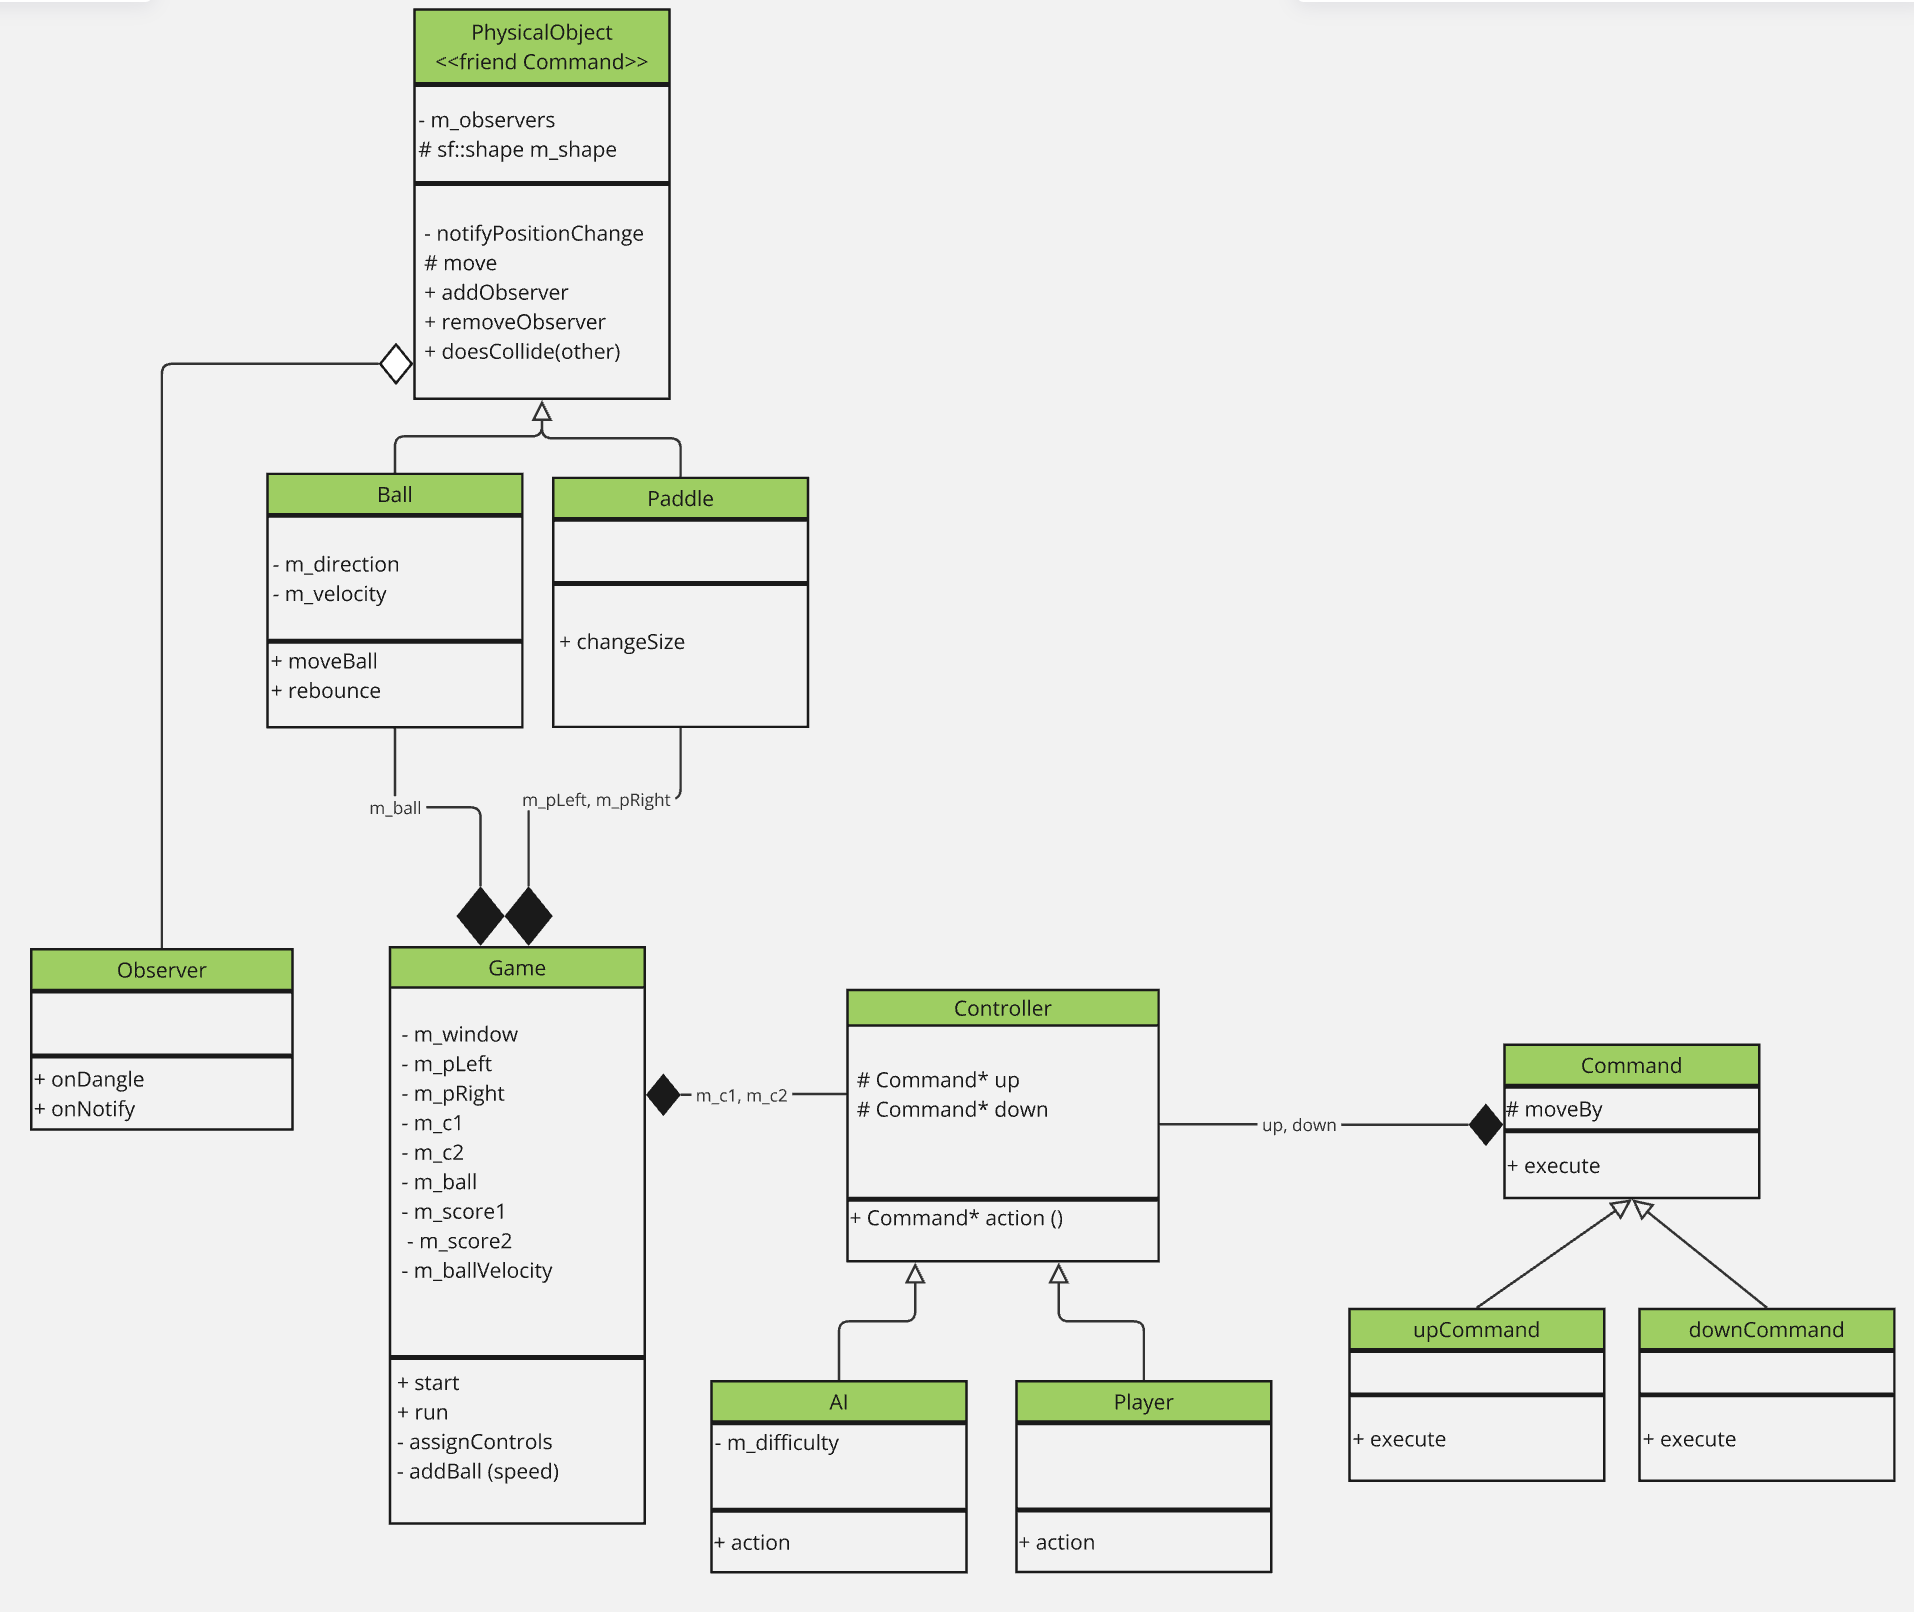
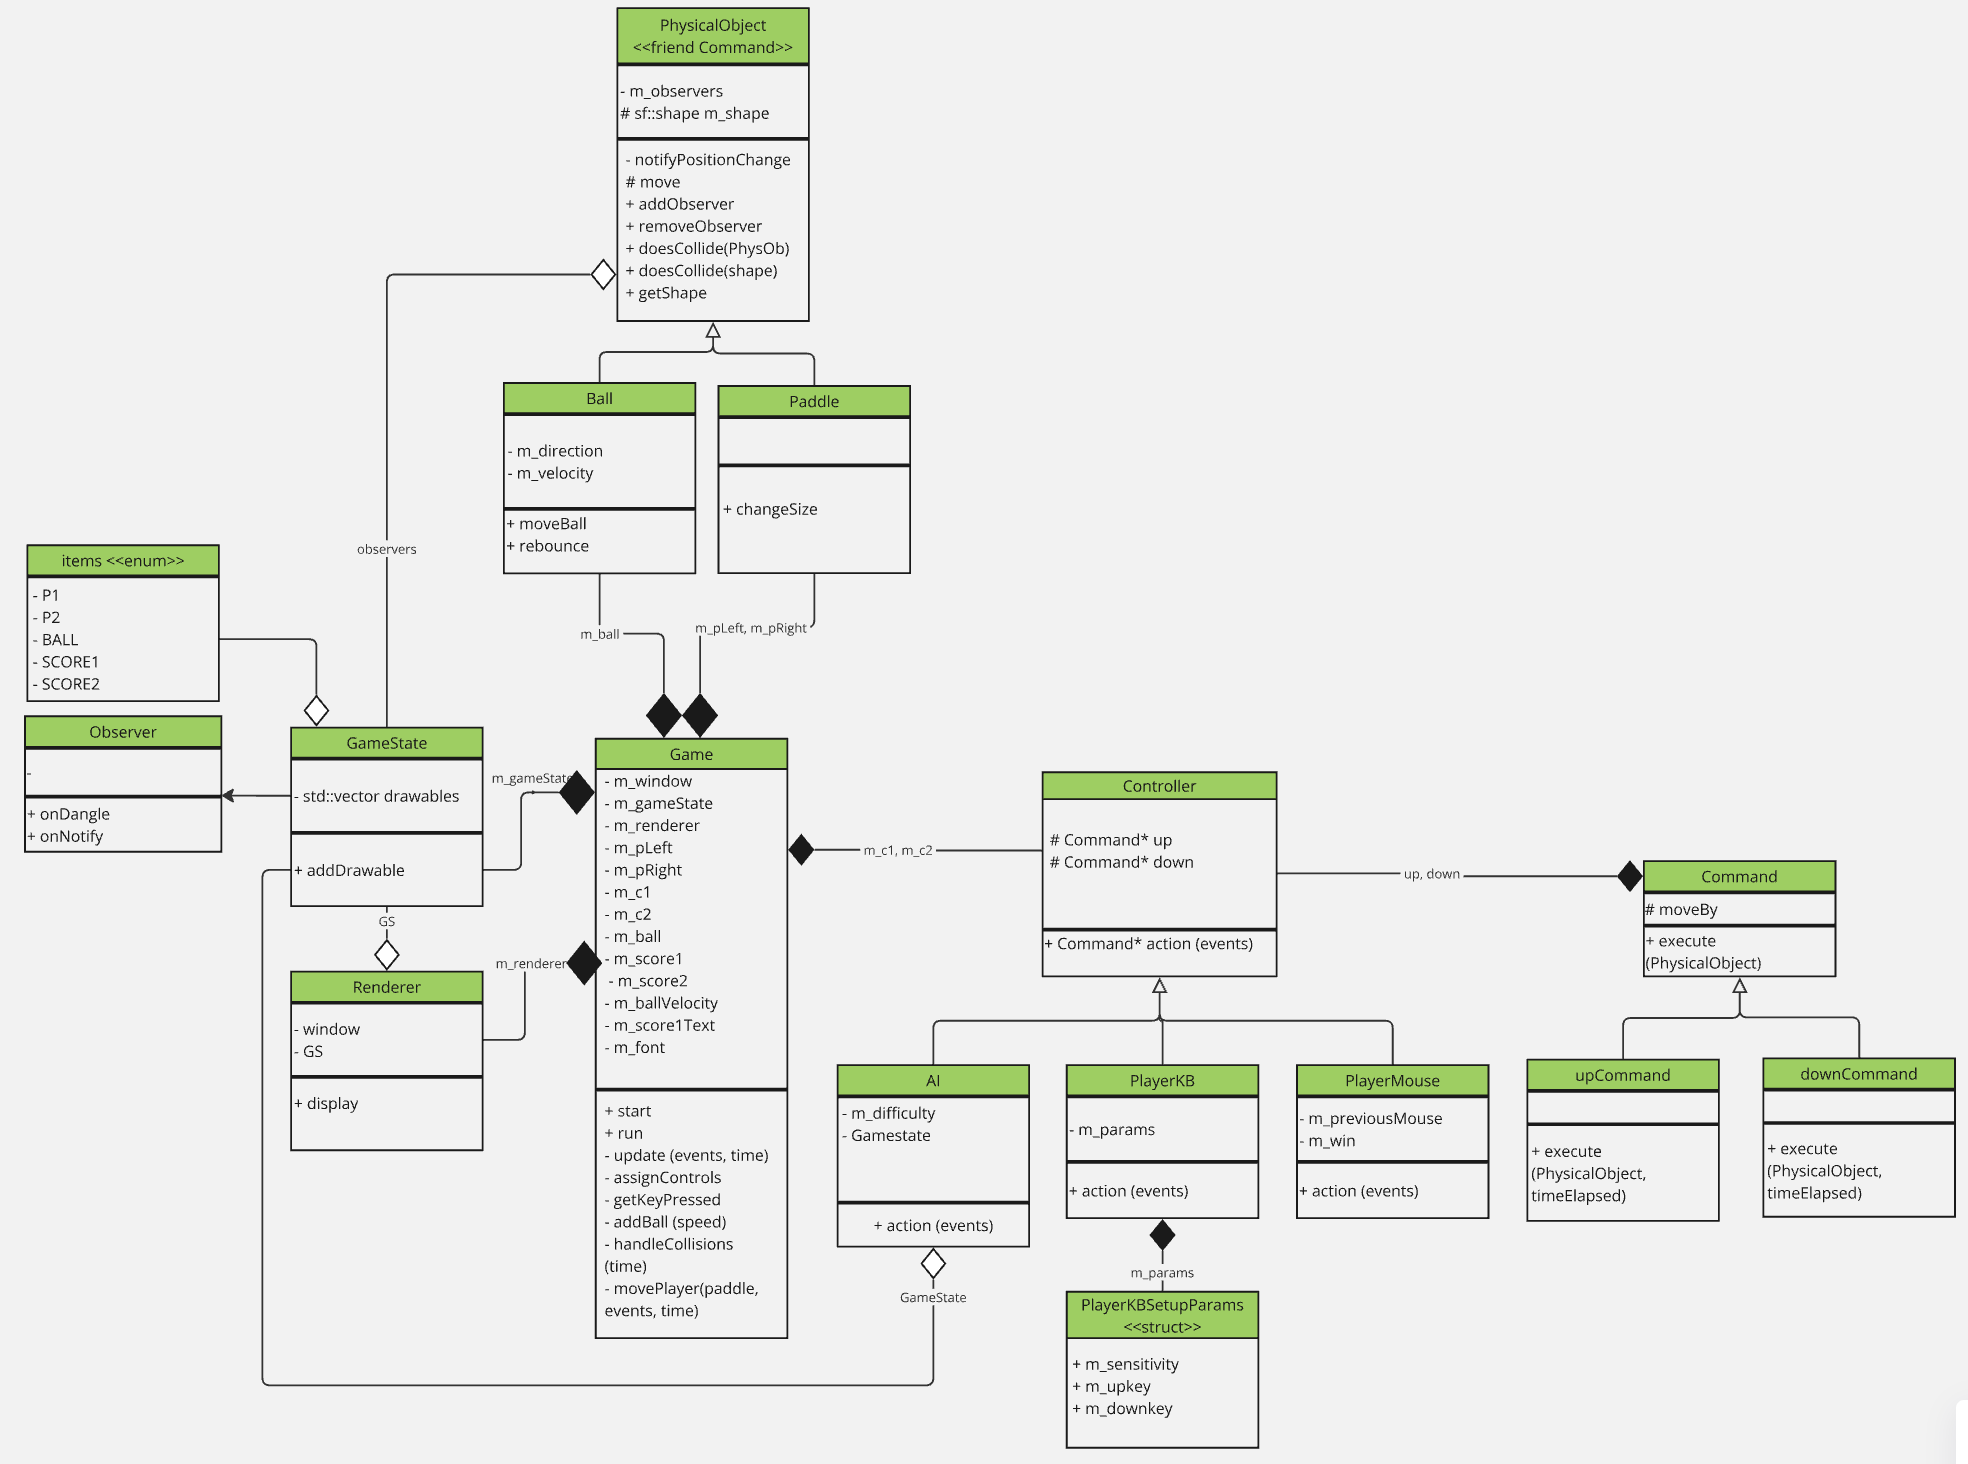
update documentation

diff --git a/src/gameState.h b/src/gameState.h
@@ -12,13 +12,11 @@ enum class items{
 };
 
 class GameState: public Observer{
-    friend class Renderer;
     public: 
     GameState();
     void addDrawable(items i, const sf::Drawable* newD);
     virtual void onNotify(const sf::Drawable* oldD, const sf::Drawable* newD) override;
     virtual void onDangle(const sf::Drawable* selfSubject) override;
-    public:
     std::vector<const sf::Drawable*> drawables;
 };
 

diff --git a/README.md b/README.md
@@ -17,10 +17,16 @@ The PhysicalObject class contains the current shape and can be moved around. The
 
 Visibility and collision:  
 
-The PhysicalObject has a shape which is used for displaying and calculating collisions with other shapes. Some observer will be implemented later to allow drawing on screen, being visible to AI etc.
+The PhysicalObject has a shape which is used for displaying and calculating collisions with other shapes. GameState tracks the identity of all objects that are currently in the game. Renderer and AI can query the GameState to draw objects/to react to ball movement. This central registry ensures that all entities react to the same information and avoids coupling.
+When a Physicalobject is created, the registry is updated via the addDrawable function.
+
+In addition, GameState is an observer of PhysicalObject. This ensures that items remove themselves from GameState upon deletion, and it also allows easier replacing of a PhysicalObject's shape (e.g. turning circle into a rectangle). Currently the observer provides little benefit (except preventing some tricky errors), but is likely to become more relevant as the game expands. Of course, there will also be other kinds of observers in the future.
+
 
 Control:  
 
 Controllers fetch input (from players or AI) and are able to return (or queue) the commands. Game is responsible for matching controller outputs (commands) with a geometry (paddles). 
-Game may have its own way of interfering with the objects as well, e.g. using commands on ball to make the ball wiggle, or on paddles to prevent them from leaving the screen. This design allows abstract control of any object, by human, AI or the game environment without entangling the classes.
+Game may have its own way of interfering with the objects as well, e.g. using commands on ball to make the ball wiggle, or on paddles to prevent them from leaving the screen. This design allows abstract control of any object, by human, AI or the game environment without entangling the classes. Currently implemented controls are keyboard, mouse and AI. A main menu to choose from those different controls is not yet written.
 
+issues:
+- ball jumps a bit when hitting a wall, particularly noticeable if hitting at small angles
